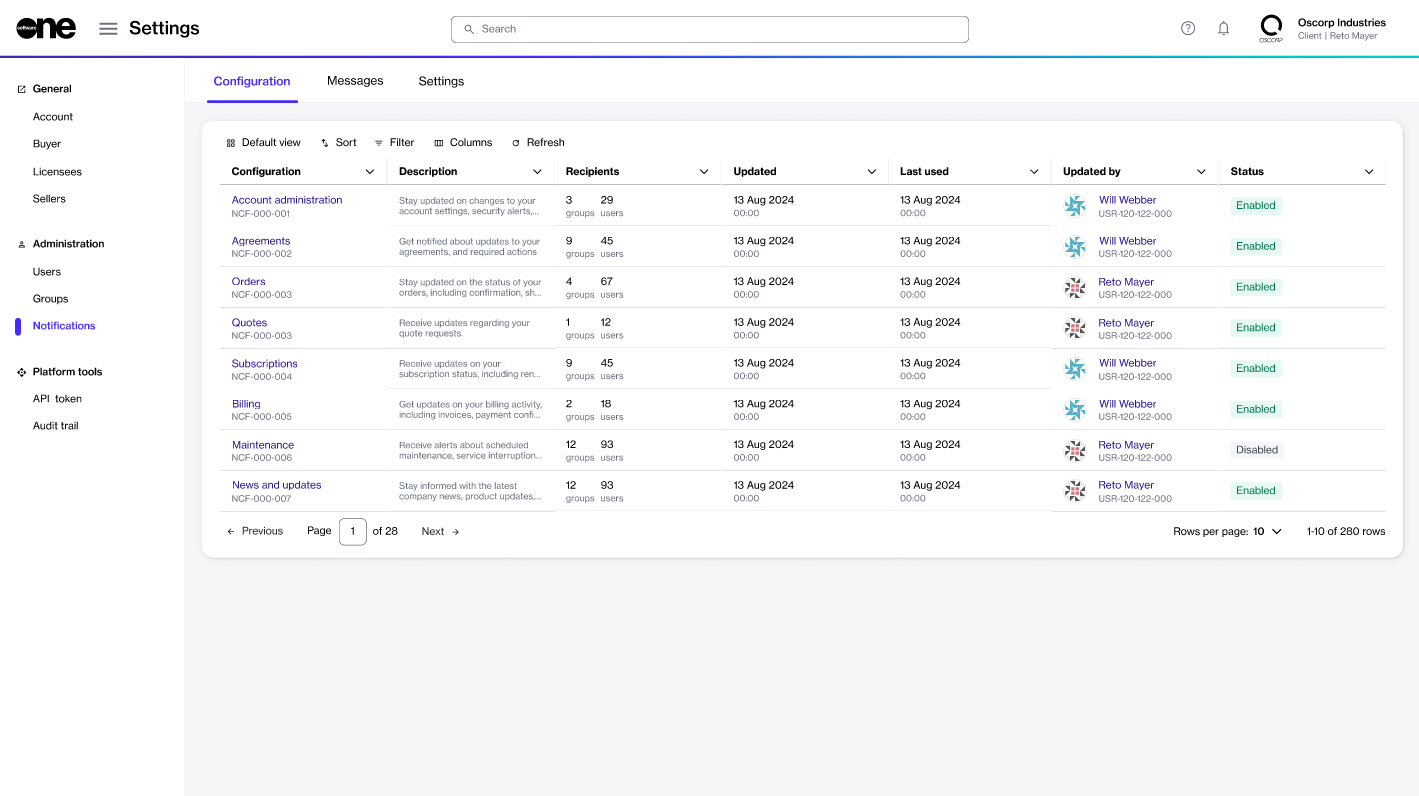
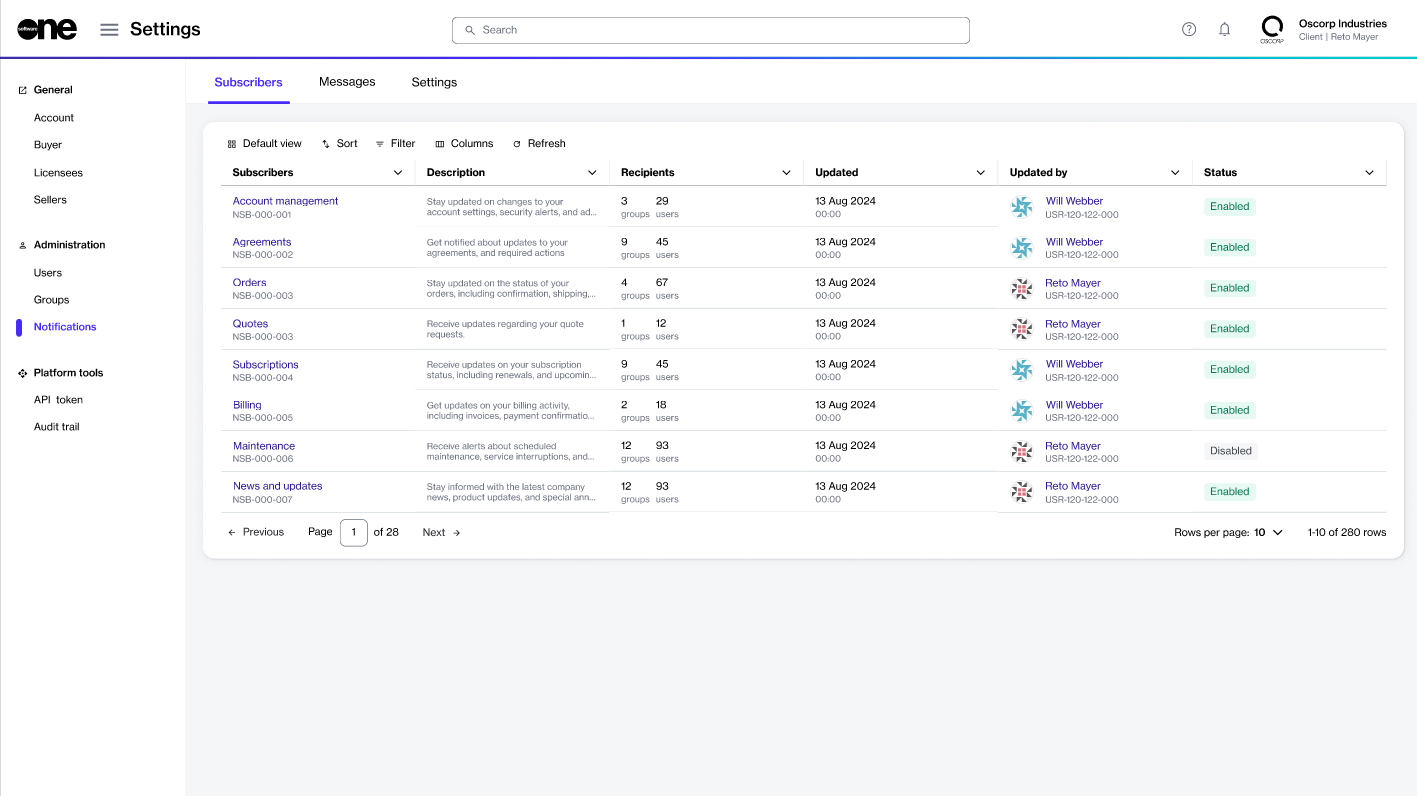
GITBOOK-18: No subject

diff --git a/modules-and-features/settings/notifications/README.md b/modules-and-features/settings/notifications/README.md
@@ -16,7 +16,7 @@ The following table lists the supported notification categories:
 
 | Notification categories | Description                                                                                                                                                                   |
 | ----------------------- | ----------------------------------------------------------------------------------------------------------------------------------------------------------------------------- |
-| Account updates         | These notifications alert recipients to the changes in the account. For instance, when a new user is added or an existing one is removed.                                     |
+| Account                 | These notifications alert recipients to the changes in the account. For instance, when a new user is added or an existing one is removed.                                     |
 | Agreements              | These notifications are sent when there are changes to an agreement. For instance, when an agreement is newly created or terminated.                                          |
 | Billing and Invoice     | These notifications relate to billing updates and invoices in your account. For instance, when a new statement is generated.                                                  |
 | News and updates        | These notifications alert recipients to the platform news and latest announcements, such as feature releases, upcoming maintenance, and more.                                 |
@@ -26,7 +26,7 @@ The following table lists the supported notification categories:
 | Subscriptions           | The platform sends these notifications when there are subscription-related updates to your account. For instance, renewal updates or when a new subscription is created.      |
 | User updates            | These email notifications are sent when you update your profile. For instance, when you update your password. You cannot opt out of these notifications.                      |
 
-You can manage these categories from the **Notifications** > **Configuration** page. See [Enable or Disable Categories](enable-or-disable-categories.md) to learn more.
+You can manage these categories from the **Notifications** > **Subscribers** page. See [Enable or Disable Categories](enable-or-disable-categories.md) to learn more.
 
 ## Notifications interface <a href="#audit-trail-interface" id="audit-trail-interface"></a>
 
@@ -34,37 +34,37 @@ Account administrators can access notifications by selecting **Settings** > **No
 
 <figure><img src="../../../.gitbook/assets/notifications_interface.png" alt=""><figcaption><p>Notifications page</p></figcaption></figure>
 
-The **Notifications** page contains these three tabs: **Configuration**, **Messages**, and **Settings**.&#x20;
+The **Notifications** page contains these three tabs: **Subscribers**, **Messages**, and **Settings**.&#x20;
 
-### Configuration
+### Subscribers
 
-The **Configuration** tab displays all [notification categories](./#notification_types) configured for your account. For each notification, you can view the following details:
+The **Subscribers** tab displays all [notification categories](./#notification_types) configured for your account. For each notification, you can view the following details:
 
-* **Configuration** - Displays the category name. Clicking the name opens the [Configuration details page](./#configuration-details-page) to manage the notification's configuration. &#x20;
+* **Subscribers** - Displays the category name. Clicking the name opens the [Subscribers details page ](./#subscriber-details-page)to manage the notification's configuration. &#x20;
 * **Description** - Displays a short description of the category.
 * **Recipients** - Shows the total number of users and groups who are the recipients of the notifications.
 * **Updated** - Shows the date and time the notification's configuration was updated.&#x20;
-* **Last used** - Shows the date and time the platform sent the notification.&#x20;
+* **Last used** - Shows the date and time the platform sent the notification in that category.&#x20;
 * **Updated by** - Displays the name and ID of the individual who updated the notification's configuration.&#x20;
 * **Status** - Indicates whether the category is enabled or disabled.&#x20;
 
-#### Configuration details page
+#### Subscribers details page
 
-The **Configuration details** page is organized into tabs displaying general information about the category and an audit trail.&#x20;
+The **Subscribers** details page is organized into tabs displaying general information about the category and an audit trail.&#x20;
 
 From the details page, you can manage recipients and groups for a notification category and enable or disable a category. See [Configure Recipients](configure-recipients.md) and [Enable or Disable Categories](enable-or-disable-categories.md) for details.
 
-<figure><img src="../../../.gitbook/assets/notifications_configuration_details.png" alt=""><figcaption><p>Configuration details page</p></figcaption></figure>
+<figure><img src="../../../.gitbook/assets/notifications_subscribers_details.png" alt=""><figcaption><p>Subscribers details page</p></figcaption></figure>
 
 ### Messages
 
 The **Messages** tab contains all messages sent to the users in your account. For each message, you can view the following details:
 
 * **ID** - Displays the ID assigned to the message by the platform.
-* **Contact** -
-* **User** -
-* **Subject** -
-* **Category** -
+* **Contact** - Displays the recipient's email address.&#x20;
+* **User** - Displays the name and ID of the individual linked to the contact. If the field is empty, it means that the recipient doesn't have an account.
+* **Subject** - Displays the subject line of the email.
+* **Category** - Displays the category of the notification. See [Notification categories](./#notification_types) for details.
 * **Created** -
 * **Created by** -
 * **Status** - Displays the status of the message. To learn about the possible statuses, see [Notification States](notification-states.md).
@@ -78,6 +78,6 @@ The **Message details** page displays general information about the message, the
 
 ### Settings
 
-The **Settings** tab allows you to view and edit your account-level notification settings, such as the sender name, the language of emails, and the email's footer. See [Edit Notification Settings](edit-notification-settings.md) for details.&#x20;
+The **Settings** tab allows you to view and edit your account-level notification settings, such as the sender name, the default language to be used for all emails, and the email's footer. See [Edit Notification Settings](edit-notification-settings.md) for details.&#x20;
 
-<figure><img src="../../../.gitbook/assets/notifications_settings.png" alt=""><figcaption><p>Edit notfication settings</p></figcaption></figure>
+<figure><img src="../../../.gitbook/assets/notifications_settings.png" alt=""><figcaption><p>Edit notification settings</p></figcaption></figure>

diff --git a/modules-and-features/settings/notifications/notification-states.md b/modules-and-features/settings/notifications/notification-states.md
@@ -6,12 +6,12 @@ The following diagram shows the possible states and the transition between these
 
 <figure><img src="../../../.gitbook/assets/notification_states.png" alt=""><figcaption><p>Notification state transition</p></figcaption></figure>
 
-| State          | Definition                                                                                      |
-| -------------- | ----------------------------------------------------------------------------------------------- |
-| **New**        | The email has been created in the system. Note that this state is not visible on the interface. |
-| **Queued**     | The email has been queued for sending.                                                          |
-| **Discarded**  | The email has been discarded because the individual has opted out or blocked the email.         |
-| **Sent**       | The notification has been sent.                                                                 |
-| **Failed**     | The platform has been unable to send the notification.                                          |
-| **Bounced**    |                                                                                                 |
-| **Complained** |                                                                                                 |
+| State          | Definition                                                                                                                                                                               |
+| -------------- | ---------------------------------------------------------------------------------------------------------------------------------------------------------------------------------------- |
+| **New**        | The email has been created in the system. Note that this state is not visible on the interface.                                                                                          |
+| **Queued**     | The email has been queued for sending.                                                                                                                                                   |
+| **Discarded**  | The email has been discarded because the individual or account has disabled the notification category, or the contact has an administrative block in place due to bounces or complaints. |
+| **Sent**       | The notification has been sent.                                                                                                                                                          |
+| **Failed**     | The platform has been unable to send the notification.                                                                                                                                   |
+| **Bounced**    | The email has bounced and could not be delivered.                                                                                                                                        |
+| **Complained** | A complaint has been raised by the recipient.                                                                                                                                            |

diff --git a/marketplace-platform/getting-started/interface/manage-notification-preferences.md b/marketplace-platform/getting-started/interface/manage-notification-preferences.md
@@ -17,7 +17,7 @@ Follow these steps to update your preferences using the **My profile** option:
 
 1. Sign in to your account and click your profile menu in the upper right.
 2. Select **My profile**.
-3. On your profile page, select the **Notifications** **preferences** tab. All notification categories for your account and their are displayed.
+3. On your profile page, select the **Notifications** **preferences** tab. All notification categories for your account, along with status, are displayed.
 4. Click the actions icon (**•••**) and select **Enable** or **Disable**.
 
 <figure><img src="../../../.gitbook/assets/notification_preferences.png" alt=""><figcaption><p>Notification preferences</p></figcaption></figure>
@@ -26,12 +26,11 @@ Follow these steps to update your preferences using the **My profile** option:
 
 ### Using the notification email
 
-Follow these steps if you wish to update your preferences through the notification email:
+Follow these steps if you wish to update your preferences from your notification email:
 
 1. Open the notification email.
-2. Scroll down to the footer and click the **Manage notifications** link.
-3. In the **Manage notifications** form, use the individual buttons to enable or disable a category.
+2. Scroll down to the footer and click the **Manage notifications** link. The **Manage notifications** form opens in your browser.
+3. In the **Manage notifications** form, use the buttons to enable or disable a category.
 4. Click **Save** to submit your preferences.&#x20;
 
-<figure><img src="../../../.gitbook/assets/notification_form.png" alt=""><figcaption><p>Manage notifications form</p></figcaption></figure>
-
+<figure><img src="../../../.gitbook/assets/notifications_form.png" alt=""><figcaption><p>Manage notifications form</p></figcaption></figure>

diff --git a/modules-and-features/settings/notifications/edit-notification-settings.md b/modules-and-features/settings/notifications/edit-notification-settings.md
@@ -9,10 +9,10 @@ The settings you define on this page are global, meaning they apply to all email
 Follow these steps to update the notification settings for an email:
 
 1. From the main menu, go to **Settings** > **Notifications** and select the **Settings** tab.&#x20;
-2. Click **Edit**.
+2. Click **Edit** in the upper right.
 3. Make the following changes as necessary:
    * **Sender name** - Enter the name to display to your email recipients.
-   * **Language** - Select the language of the email.
+   * **Language** - Select the default language to be used for all emails sent at the account level.
    * **Custom footer** - Include any additional information to display in the footer. The content you add is displayed alongside the standard text in the footer.&#x20;
 
 <figure><img src="../../../.gitbook/assets/notifications_settings.png" alt=""><figcaption></figcaption></figure>
